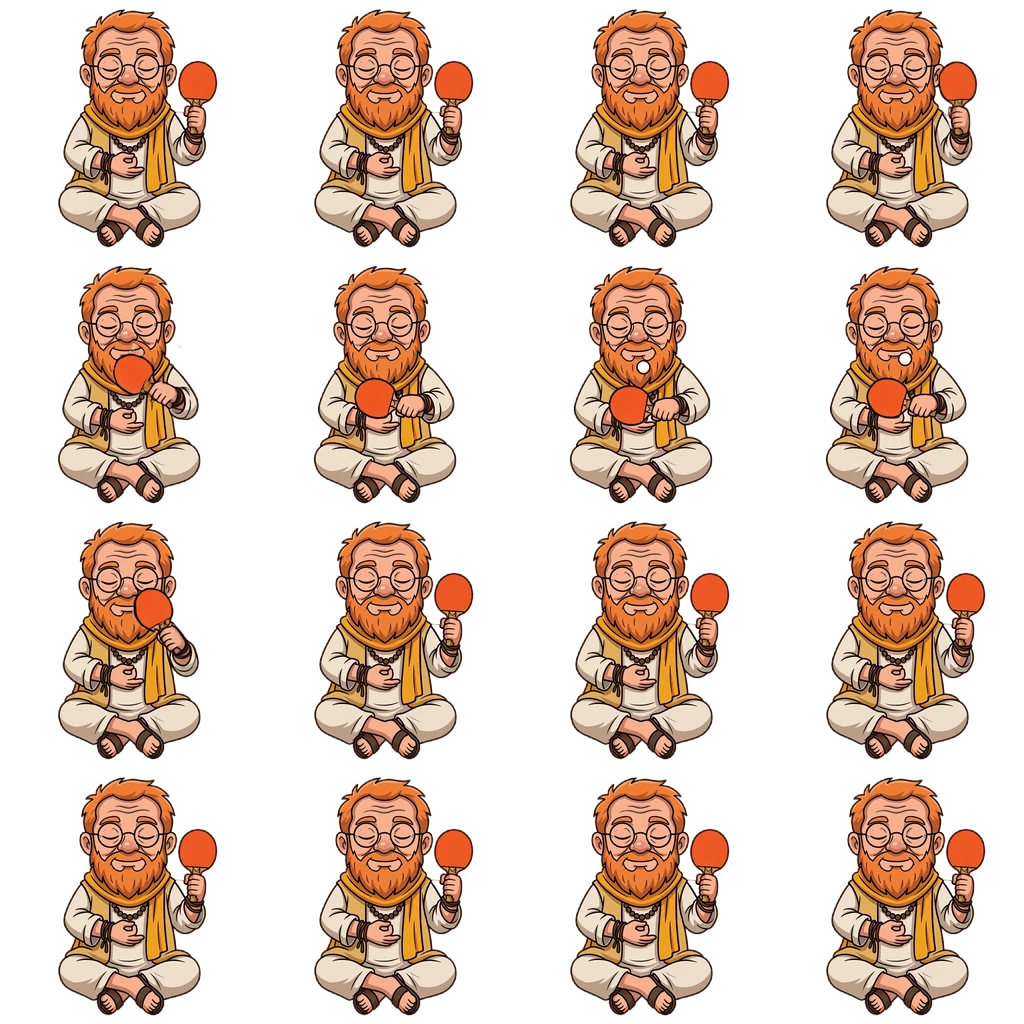
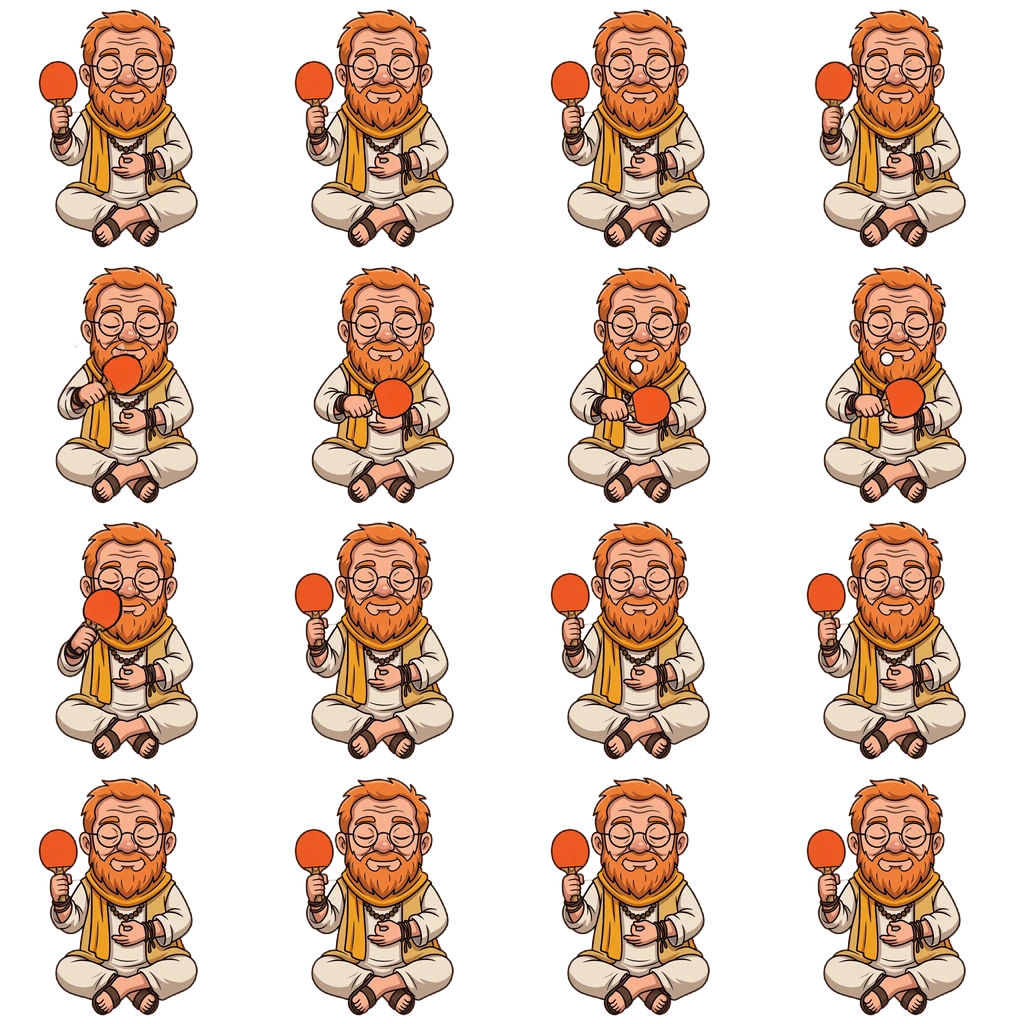
Ping-pong: Jusef dreta amb girs i cops d'AutoSprite (drive nadiu a l'esquerra, revers a la dreta), cap doble bot ni punt si esta ben situat, sense boto de sortir a la celebracio

diff --git a/js/pingpong.js b/js/pingpong.js
@@ -34,6 +34,10 @@ const MODES = {
     normal: { temps: 0.8, finestra: 0.45, bona: 1.3, abast: 0.45, abastJusef: 0.3, velJusef: 0.9, fallaJusef: 0 },
     facil:  { temps: 0.65, finestra: 0.7, bona: 1.8,  abast: 0.65, abastJusef: 0.26, velJusef: 0.72, fallaJusef: 0 }
 };
+const GIR_AN = {      // [centre x, peus y] (0-1) de cada fotograma dels fulls de gir d'AutoSprite
+    jusef_gir_dreta: [[0.461, 0.969], [0.463, 0.961], [0.461, 0.953], [0.461, 0.945], [0.463, 0.938], [0.486, 0.926], [0.506, 0.918], [0.514, 0.902], [0.506, 0.895], [0.482, 0.879], [0.492, 0.863], [0.498, 0.859], [0.498, 0.859], [0.498, 0.859], [0.498, 0.859], [0.498, 0.859]],
+    jusef_gir_esquerra: [[0.461, 0.969], [0.455, 0.957], [0.445, 0.945], [0.438, 0.926], [0.441, 0.906], [0.453, 0.895], [0.477, 0.875], [0.496, 0.863], [0.498, 0.859], [0.498, 0.859], [0.498, 0.859], [0.498, 0.859], [0.498, 0.859], [0.498, 0.859], [0.498, 0.859], [0.498, 0.859]]
+};
 const Z_COP = 0.05;           // fondària on l'Ineu colpeja la pilota
 
 const ESTAT_PP = { mode: 'normal', derrotes: 0 };      // el mode fàcil i les derrotes duren mentre no es recarrega el joc
@@ -46,8 +50,9 @@ class EscenaPingPong extends Phaser.Scene {
         ['drive', 'reves', 'servei'].forEach(n => this.load.spritesheet(n === 'servei' ? 'ineu_servei' : 'pp_' + n, `assets/pingpong2/ineu_${n}.webp?v=2`, { frameWidth: 512, frameHeight: 512 }));
                 this.load.image('pp_cartell', 'assets/objectes/cartell_llums.webp?v=2611110200');
         this.load.spritesheet('ineu_celebracio', 'assets/pingpong2/ineu_celebracio.webp?v=2', { frameWidth: 512, frameHeight: 512 });
-        ['jusef_dret', 'jusef_revers', 'jusef_servei'].forEach(n => this.load.spritesheet(n, `assets/pingpong2/${n}.webp?v=3`, { frameWidth: 256, frameHeight: 256 }));
-        ['jusef_dret_3q', 'jusef_revers_3q'].forEach(n => this.load.spritesheet(n, `assets/pingpong2/${n}.webp?v=3`, { frameWidth: 256, frameHeight: 256 }));       // de perfil: gira el cos cap al costat de la pilota
+        ['jusef_dret', 'jusef_revers', 'jusef_servei'].forEach(n => this.load.spritesheet(n, `assets/pingpong2/${n}.webp?v=5`, { frameWidth: 256, frameHeight: 256 }));
+        ['jusef_gir_dreta', 'jusef_gir_esquerra'].forEach(n => this.load.spritesheet(n, `assets/pingpong2/${n}.webp?v=5`, { frameWidth: 256, frameHeight: 256 }));       // el gir de cara a perfil, fotograma a fotograma
+        ['jusef_cop_drive_esquerra', 'jusef_revers_3q'].forEach(n => this.load.spritesheet(n, `assets/pingpong2/${n}.webp?v=5`, { frameWidth: 256, frameHeight: 256 }));       // de perfil: gira el cos cap al costat de la pilota
     }
 
     create() {
@@ -69,13 +74,27 @@ class EscenaPingPong extends Phaser.Scene {
         // En Jusef (d'AutoSprite): quiet = el primer fotograma; els gestos de cop de dret, de revers i de servei s'engeguen quan toca
         this.anims.create({ key: 'jf_dret', frames: this.anims.generateFrameNumbers('jusef_dret', { start: 2, end: 12 }), frameRate: 30 });
         this.anims.create({ key: 'jf_revers', frames: this.anims.generateFrameNumbers('jusef_revers', { start: 2, end: 12 }), frameRate: 30 });
-        this.anims.create({ key: 'jf_dret3q', frames: this.anims.generateFrameNumbers('jusef_dret_3q', { start: 2, end: 12 }), frameRate: 30 });
+        this.anims.create({ key: 'jf_drive_esq', frames: this.anims.generateFrameNumbers('jusef_cop_drive_esquerra', { start: 1, end: 12 }), frameRate: 32 });          // drive de perfil mirant a l'esquerra, fet a AutoSprite amb la raqueta a la mà dreta (no és el full de la dreta emmirallat: això li canviava la raqueta de mà)
         this.anims.create({ key: 'jf_revers3q', frames: this.anims.generateFrameNumbers('jusef_revers_3q', { start: 2, end: 12 }), frameRate: 30 });
+        [['dreta', 11], ['esquerra', 9]].forEach(([n, fi]) => {          // el gir acaba de moure's al fotograma fi: els següents són el mateix perfil
+            this.anims.create({ key: 'jf_gir_' + n, frames: this.anims.generateFrameNumbers('jusef_gir_' + n, { start: 1, end: fi }), frameRate: 60 });
+            this.anims.create({ key: 'jf_gir_' + n + '_tornada', frames: this.anims.generateFrameNumbers('jusef_gir_' + n, { start: fi, end: 1 }), frameRate: 60 });
+        });
         this.anims.create({ key: 'jf_servei', frames: this.anims.generateFrameNumbers('jusef_servei', { start: 1, end: 12 }), frameRate: 20 });
         this.anims.create({ key: 'ineu_servei', frames: this.anims.generateFrameNumbers('ineu_servei', { start: 3, end: 15 }), frameRate: 26 });
         this.spJusef = this.add.sprite(0, 0, 'jusef_dret', 0).setOrigin(0.5, 0.97);
         this.kJusef = 1; this.sqJ = 1;
-        this.spJusef.on('animationcomplete', () => { if (this.spJusef.texture.key.endsWith('_3q')) this.giraJusef('jusef_dret', 0, false); else this.posaJusef('jusef_dret', 0); });
+        // Cadena del cop de perfil (en Jusef és DRETÀ: la raqueta a la mà dreta, a l'esquerra de la pantalla quan mira de cara):
+        //  pilota a la DRETA de la pantalla (a la seva esquerra) -> gira cap a la dreta i fa el REVERS; pilota a l'ESQUERRA (a la seva dreta) -> gira cap a l'esquerra i fa el DRIVE.
+        // gir (fotogrames d'AutoSprite) -> cop -> gir de tornada -> de cara. Qualsevol altra animació acaba de cara.
+        this.spJusef.on('animationcomplete', a => {
+            const k = a.key;
+            if (k === 'jf_gir_dreta') { this.posaJusef('jusef_revers_3q', 2, false); this.spJusef.play('jf_revers3q', true); }
+            else if (k === 'jf_gir_esquerra') { this.posaJusef('jusef_cop_drive_esquerra', 1, false); this.spJusef.play('jf_drive_esq', true); }
+            else if (k === 'jf_revers3q') { this.posaJusef('jusef_gir_dreta', 11, false); this.spJusef.play('jf_gir_dreta_tornada', true); }
+            else if (k === 'jf_drive_esq') { this.posaJusef('jusef_gir_esquerra', 9, false); this.spJusef.play('jf_gir_esquerra_tornada', true); }
+            else this.posaJusef('jusef_dret', 0);
+        });
         this.auraJusef = this.add.ellipse(0, 0, 160, 190, 0xb890ff, 0).setDepth(1);
         this.ombra = this.add.ellipse(0, 0, 20, 8, 0x000000, 0.35).setDepth(0.6);
         this.pilota = this.add.circle(0, 0, 14, 0xfff6e0).setStrokeStyle(4, 0x3a2a14);
@@ -93,7 +112,7 @@ class EscenaPingPong extends Phaser.Scene {
         this.txtAjuda = null;                                                    // (sense text de tutorial a sota)
         this.estelaG = this.ui(this.add.graphics().setDepth(48));
         this.pistaCop = this.ui(this.add.text(0, 0, '', { fontFamily: 'Georgia, serif', fontSize: '34px', color: '#ffe9a0', stroke: '#000000', strokeThickness: 7, align: 'center' }).setOrigin(0.5, 1).setDepth(49).setVisible(false));
-        this.ui(this.add.text(20, 94, 'Sortir ✕', { fontFamily: 'Georgia, serif', fontSize: '26px', color: '#f2e6c8', backgroundColor: '#1a120bcc', padding: { x: 12, y: 6 } })
+        this.btnSortir = this.ui(this.add.text(20, 94, 'Sortir ✕', { fontFamily: 'Georgia, serif', fontSize: '26px', color: '#f2e6c8', backgroundColor: '#1a120bcc', padding: { x: 12, y: 6 } })
             .setOrigin(0, 0.5).setDepth(50).setInteractive({ useHandCursor: true }).on('pointerdown', (p, x, y, ev) => { if (ev) ev.stopPropagation(); this.punxo = null; this.sortir(); }));
         // Estat
         this.Xi = 0; this.Xj = 0; this.lent = 1; this.zoomExtra = 0; this.punxo = null; this.traç = [];
@@ -209,12 +228,20 @@ class EscenaPingPong extends Phaser.Scene {
     // Fotograma de repòs o d'un full d'en Jusef, amb el punt d'ancoratge (els peus i el centre del cos) i l'escala que li toquen: els fulls de perfil
     // (seu de cara a la dreta) tenen el cos més baix i descentrat. 'mirall' = el mira a l'esquerra.
     posaJusef(textura, fotograma, mirall = false) {
-        const AN = { jusef_dret_3q: [0.465, 0.855, 1.15], jusef_revers_3q: [0.484, 0.855, 1.15] }[textura] || [0.5, 0.97, 1];
+        const AN = { jusef_cop_drive_esquerra: [0.498, 0.859, 1.15], jusef_revers_3q: [0.496, 0.859, 1.15] }[textura] || [0.5, 0.97, 1];
         this.spJusef.setTexture(textura, fotograma).setOrigin(AN[0], AN[1]).setFlipX(mirall);
         this.kJusef = AN[2];
     }
 
-    // Transició de gir: el cos s'estreny (com si es girés) fins a quasi de perfil, es canvia de full i s'obre de nou; llavors comença l'animació del cop (si n'hi ha).
+    // Ancoratge fotograma a fotograma durant el gir (taula mesurada als fulls d'AutoSprite): centre i peus del cos; l'escala creix del de cara (1) al de perfil (1,15)
+    ancoraGir() {
+        const t = this.spJusef.texture.key;
+        if (t !== 'jusef_gir_dreta' && t !== 'jusef_gir_esquerra') return;
+        const f = parseInt(this.spJusef.frame.name, 10) || 0, a = GIR_AN[t][f];
+        this.spJusef.setOrigin(a[0], a[1]); this.kJusef = 1 + 0.15 * Math.min(1, f / (t === 'jusef_gir_dreta' ? 11 : 8));
+    }
+
+    // (versió antiga, sense fulls de gir) Transició de gir: el cos s'estreny (com si es girés) fins a quasi de perfil, es canvia de full i s'obre de nou; llavors comença l'animació del cop (si n'hi ha).
     giraJusef(textura, fotograma, mirall, anim) {
         this.tweens.killTweensOf(this);
         this.spJusef.anims.stop();
@@ -288,6 +315,22 @@ class EscenaPingPong extends Phaser.Scene {
         return { vx: (Xt - des.X) / t, vz: vz(), vh, t };
     }
 
+    // Força mínima: després del primer bot al camp d'en Jusef la pilota ha de sortir de la taula (z > L) sense botar-hi una segona vegada.
+    // Si el cop és massa fluix o curt, es fa més ràpid (menys temps fins al bot) i, si encara no n'hi ha prou (bot just darrere la xarxa), el bot es mou una mica cap enrere:
+    // així el punt només el decideix on cau la pilota lateralment, mai un doble bot. Retorna { t, zt } (temps i fondària del bot ja ajustats).
+    assegura(des, Xt, zt, temps) {
+        const prou = (z, t) => {
+            const v = this.vel(des, Xt, z, t);                       // v.t: el temps real fins al bot (s'allarga si cal passar la xarxa)
+            const impacte = -(v.vh - T.G * v.t);                     // velocitat vertical en tocar la taula
+            return z + v.vz * 0.97 * (2 * impacte * T.REST / T.G) >= T.L + 0.25;
+        };
+        for (let z = zt; z <= T.L - 0.25; z += 0.06) {
+            let t = temps;
+            for (let k = 0; k < 14; k++) { if (prou(z, t)) return { t, zt: z }; t = Math.max(0.32, t * 0.93); }
+        }
+        return { t: Math.max(0.32, temps * 0.6), zt: Math.min(zt + 0.4, T.L - 0.3) };
+    }
+
     // SERVEI: la pilota ha de botar PRIMER al camp de qui serveix i després passar la xarxa i botar a l'altre camp
     serveix(qui, des, Xt, zt, temps, magica = false) {
         this.tossJ = null;
@@ -302,6 +345,7 @@ class EscenaPingPong extends Phaser.Scene {
     }
 
     llanca(qui, des, Xt, zt, temps) {
+        if (qui === 'ineu') { const aj = this.assegura(des, Xt, zt, temps); temps = aj.t; zt = aj.zt; }
         let t = temps, vh;
         const vz = () => (zt - des.z) / t;
         for (let i = 0; i < 20; i++) {
@@ -311,6 +355,7 @@ class EscenaPingPong extends Phaser.Scene {
             t += 0.06;
         }
         this.b = { X: des.X, z: des.z, h: des.h, vx: (Xt - des.X) / t, vz: vz(), vh, de: qui, bots: 0, decidit: false, morta: false, marca: { X: Xt, z: zt } };
+        this.b.xInt = Xt + this.b.vx * (T.L + 0.05 - zt) / this.b.vz;          // on passarà pel lloc d'en Jusef (la pilota segueix derivant de costat després del bot): allà s'ha de posar ell
         this.pilota.setVisible(true).setFillStyle(0xfff6e0).setStrokeStyle(4, 0x3a2a14); this.ombra.setVisible(true);
         // la marca d'on botarà (només quan ve cap a tu)
         const pm = this.proj(Xt, zt);
@@ -338,11 +383,12 @@ class EscenaPingPong extends Phaser.Scene {
         this.pintaRastre(b);
         // Jusef: va cap a on arribarà la pilota
         let objJ = 0;
-        if (this.b && this.b.de === 'ineu' && !this.b.morta) objJ = Phaser.Math.Clamp(this.b.marca.X, -0.72, 0.72);          // va just on cau (abans se'n passava quan el cop era fort)
+        if (this.b && this.b.de === 'ineu' && !this.b.morta) objJ = Phaser.Math.Clamp(this.b.xInt !== undefined ? this.b.xInt : this.b.marca.X, -0.85, 0.85);          // va just on cau (abans se'n passava quan el cop era fort)
         const pasJ = this.M.velJusef * dt;
         this.Xj += Phaser.Math.Clamp(objJ - this.Xj, -pasJ, pasJ);
         const pj = this.proj(this.Xj, T.Z_JUSEF);
         const flota = Math.sin(time / 400) * 6;
+        this.ancoraGir();
         { const esc = 2.1 * pj.k / 400 * (1 + 0.07 * this.pulsJusef) * this.kJusef; this.spJusef.setPosition(pj.x, pj.y + flota).setScale(esc * this.sqJ, esc).setDepth(10 - T.Z_JUSEF); }
         this.spJusef.angle = Phaser.Math.Linear(this.spJusef.angle, Phaser.Math.Clamp((objJ - this.Xj) * 9, -6, 6), 0.2);                  // s'inclina cap a on corre
         this.auraJusef.setPosition(pj.x, pj.y - 120 + flota);
@@ -444,7 +490,8 @@ class EscenaPingPong extends Phaser.Scene {
                     this.so('bot'); { const q = this.proj(b.X, b.z, 0); this.botPilota(q.x, q.y); }
                     const banda = b.z < T.L / 2 ? 'ineu' : 'jusef';
                     if (banda === b.de) {
-                        if (b.serveix) { const sv = b.serveix; b.serveix = null; const v = this.vel({ X: b.X, z: b.z, h: 0 }, sv.Xt, sv.zt, sv.t); b.vx = v.vx; b.vz = v.vz; b.vh = v.vh; continue; }     // servei: primer bot al seu camp
+                        if (b.serveix) { const sv = b.serveix; b.serveix = null; if (b.de === 'ineu') { const aj = this.assegura({ X: b.X, z: b.z, h: 0 }, sv.Xt, sv.zt, sv.t); sv.t = aj.t; sv.zt = aj.zt; }
+                        const v = this.vel({ X: b.X, z: b.z, h: 0 }, sv.Xt, sv.zt, sv.t); b.vx = v.vx; b.vz = v.vz; b.vh = v.vh; b.xInt = sv.Xt + v.vx * (T.L + 0.05 - sv.zt) / v.vz; continue; }     // servei: primer bot al seu camp
                         this.finalBola(b.de === 'ineu' ? 'jusef' : 'ineu', 'Ha botat al seu camp'); return;
                     }
                     b.bots++;
@@ -480,12 +527,12 @@ class EscenaPingPong extends Phaser.Scene {
     copJusef() {
         const b = this.b, M = this.M;
         const lat = b.X - this.Xj;
-        if (Math.abs(lat) < 0.12) { this.tweens.killTweensOf(this); this.sqJ = 1; this.posaJusef('jusef_dret', 0); this.spJusef.play(b.X >= this.Xj ? 'jf_dret' : 'jf_revers', true); }       // a prop del mig: els de cara
-        else if (lat > 0) this.giraJusef('jusef_revers_3q', 2, false, 'jf_revers3q');                                                           // pilota a la dreta: gira el cos cap a la dreta (revers)
-        else this.giraJusef('jusef_dret_3q', 2, true, 'jf_dret3q');                                                // pilota a l'esquerra: gira el cos cap a l'esquerra (drive, emmirallat)
+        if (Math.abs(lat) < 0.12) { this.tweens.killTweensOf(this); this.sqJ = 1; this.posaJusef('jusef_dret', 0); this.spJusef.play(b.X < this.Xj ? 'jf_dret' : 'jf_revers', true); }       // a prop del mig: els de cara (dretà: la pilota a l'esquerra de la pantalla és drive)
+        else if (lat > 0) { this.posaJusef('jusef_gir_dreta', 1, false); this.spJusef.play('jf_gir_dreta', true); }       // pilota a la dreta de la pantalla (a la seva esquerra): gira cap a la dreta i fa el revers
+        else { this.posaJusef('jusef_gir_esquerra', 1, false); this.spJusef.play('jf_gir_esquerra', true); }               // pilota a l'esquerra (a la seva dreta): gira cap a l'esquerra i fa el drive
         this.juiceCopJusef(this.proj(b.X, b.z, b.h));
         const dx = Math.abs(b.X - this.Xj);
-        const abast = M.abastJusef * (b.tipus === 'tallat' ? 0.8 : b.tipus === 'fort' ? 0.95 : 1);
+        const abast = M.abastJusef;          // el mateix abast per a tots els cops: si és ben situat lateralment, la torna sempre
         if (b.tipus === 'magic') { b.motiu = 'L\'encanteri trencat: no hi pot fer res!'; return; }
         if (dx > abast) {
             b.motiu = b.tipus === 'fort' ? 'En Jusef no hi arriba!' : b.tipus === 'tallat' ? 'Cop tallat: en Jusef no hi arriba!' : 'Massa lluny per a en Jusef!';
@@ -636,6 +683,7 @@ class EscenaPingPong extends Phaser.Scene {
     // ---- Celebració de l'Ineu en guanyar el partit (animació d'AutoSprite + efectes d'anime) ----
     celebraVictoria(fet) {
         const sp = this.spCeleb;
+        if (this.btnSortir) this.btnSortir.setVisible(false).disableInteractive();          // durant la celebració no hi ha «Sortir»: tocar la pantalla ja la tanca
         this.celebActiva = this.time.now;
         this.tweens.add({ targets: this.celebFons, fillAlpha: 0.74, duration: 260 });
         this.flaixPantalla(0.9, 380);

diff --git a/eines/emmirallar_jusef.js b/eines/emmirallar_jusef.js
@@ -1,0 +1,31 @@
+/**
+ * En Jusef és dretà (la raqueta a la mà dreta = a l'esquerra de la pantalla quan mira de cara), però els fulls frontals d'AutoSprite el feien esquerrà.
+ * Aquest script emmiralla CADA fotograma (256x256) dels fulls frontals de art/pingpong2/ i els deixa a assets/pingpong2/ (sense tocar els originals):
+ *   node eines/emmirallar_jusef.js
+ * També deixa a art/pingpong2/tmp/ els dos fotogrames emmirallats que serveixen de pose a AutoSprite per generar els girs.
+ */
+const sharp = require('sharp'), fs = require('fs'), path = require('path');
+const A = path.join(__dirname, '..', 'art', 'pingpong2'), S = path.join(__dirname, '..', 'assets', 'pingpong2');
+async function emmirallaFull(entrada, sortida, mida = 256) {
+  const { data, info } = await sharp(entrada).ensureAlpha().raw().toBuffer({ resolveWithObject: true });
+  const n = info.width / mida, comp = [];
+  for (let f = 0; f < n * n; f++) {
+    const cel = await sharp(data, { raw: { width: info.width, height: info.height, channels: 4 } }).extract({ left: (f % n) * mida, top: Math.floor(f / n) * mida, width: mida, height: mida }).flop().png().toBuffer();
+    comp.push({ input: cel, left: (f % n) * mida, top: Math.floor(f / n) * mida });
+  }
+  await sharp({ create: { width: info.width, height: info.height, channels: 4, background: { r: 0, g: 0, b: 0, alpha: 0 } } }).composite(comp).webp({ quality: 90, alphaQuality: 100, effort: 6 }).toFile(sortida);
+}
+async function fotograma(entrada, f, sortida, mirall) {
+  let im = sharp(entrada).ensureAlpha().extract({ left: (f % 4) * 256, top: Math.floor(f / 4) * 256, width: 256, height: 256 });
+  if (mirall) im = im.flop();
+  await im.png().toFile(sortida);
+}
+(async () => {
+  const tmp = path.join(A, 'tmp'); fs.mkdirSync(tmp, { recursive: true });
+  if (process.argv[2] === 'poses') {
+    await fotograma(path.join(A, 'jusef_dret.png'), 0, path.join(tmp, 'frontal_mirall.png'), true);
+    await fotograma(path.join(A, 'jusef_dret_3q.png'), 2, path.join(tmp, 'perfil_drive_mirall.png'), true);
+    console.log('poses a', tmp); return;
+  }
+  for (const n of ['jusef_dret', 'jusef_revers', 'jusef_servei']) { await emmirallaFull(path.join(A, n + '.png'), path.join(S, n + '.webp')); console.log(n); }
+})();

diff --git a/index.html b/index.html
@@ -74,7 +74,7 @@
     <script src="js/dibuixos_ermita.js?v=2611112239"></script>
     <script src="js/dibuixos_casa.js?v=2611112239"></script>
     <script src="js/dibuixos_proleg.js?v=2611112239"></script>
-    <script src="js/dibuixos_pingpong.js?v=2611117200"></script>
+    <script src="js/dibuixos_pingpong.js?v=2611117700"></script>
     <script src="js/assets.js?v=2611116700"></script>
     <script src="js/dialegs.js?v=2611116700"></script>
     <script src="js/ui.js?v=2611117201"></script>
@@ -88,7 +88,7 @@
     <script src="js/zones/nord.js?v=2611116800"></script>
     <script src="js/zones/cirosa.js?v=2611111747"></script>
     <script src="js/estels.js?v=2611112239"></script>
-    <script src="js/pingpong.js?v=2611117200"></script>
+    <script src="js/pingpong.js?v=2611117700"></script>
     <script src="js/credits.js?v=2611112239"></script>
     <script src="js/zones/oest.js?v=2611111747"></script>
     <script src="js/zones/bosc_pi.js?v=2611115200"></script>
